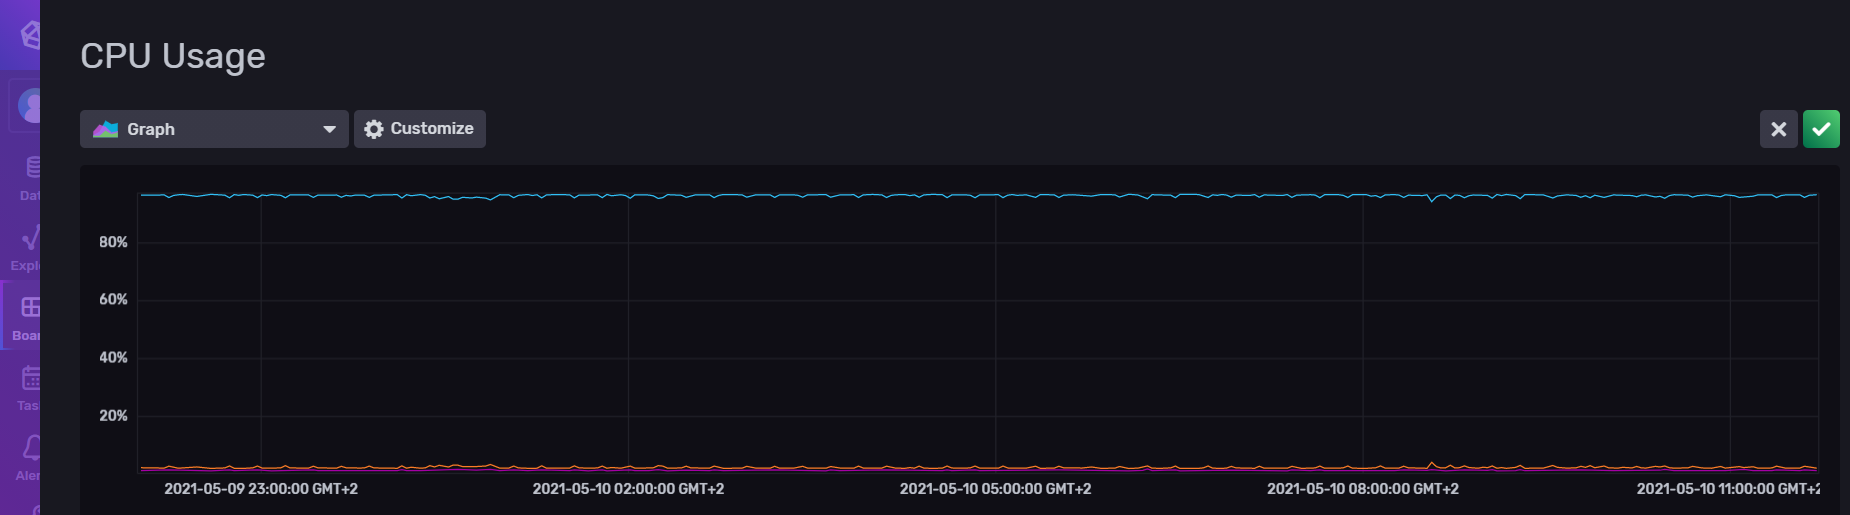
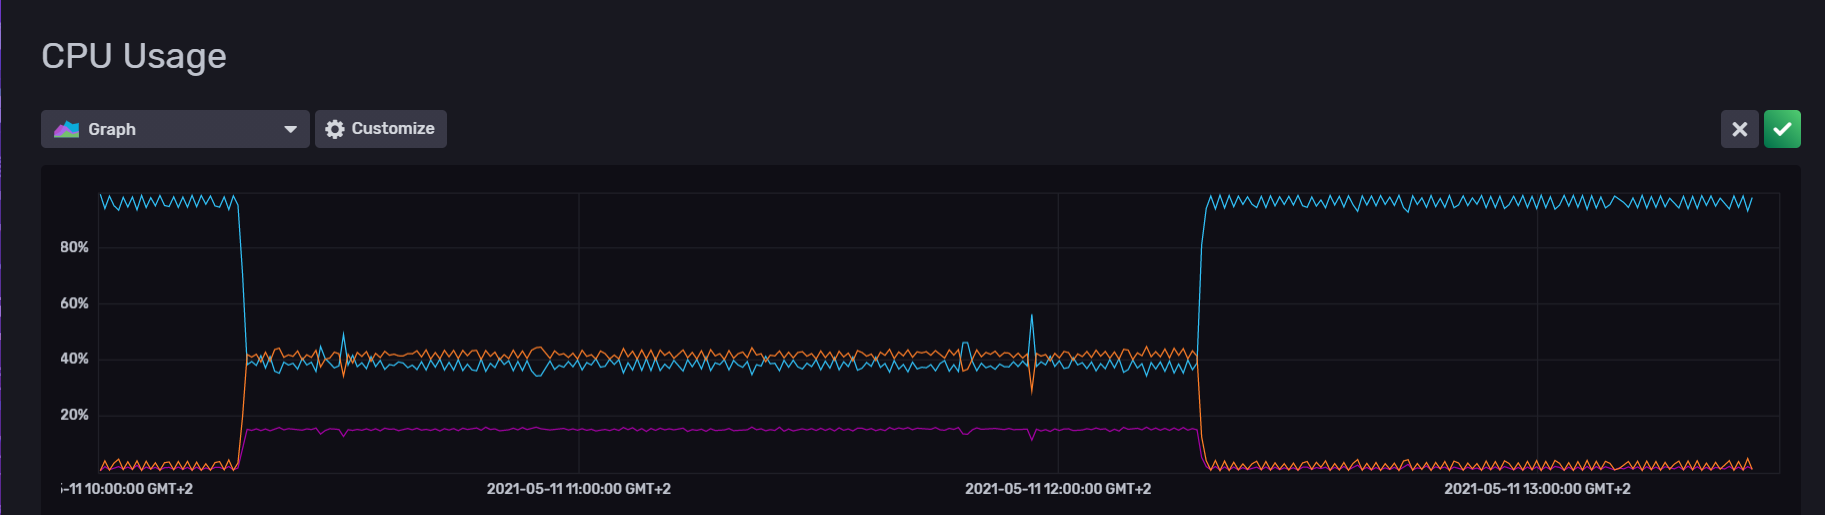
estability test done

diff --git a/00-Testing/Pruebas De Rendimiento.md b/00-Testing/Pruebas De Rendimiento.md
@@ -543,33 +543,33 @@ En las siguientes imágenes se pueden ver los resultados en gráfica y tabla. Se
 
 Los resultados obtenidos se pueden ver en la siguiente tabla:
 
-| Label                                 | # Samples | Average | Min  | Max  | Std. Dev. | Error % | Throughput | Received KB/sec | Sent KB/sec | Avg. Bytes |
-| ------------------------------------- | --------- | ------- | ---- | ---- | --------- | ------- | ---------- | --------------- | ----------- | ---------- |
-| /api/university/organizationByType    | 15        | 131     | 94   | 320  | 63.14     | 0.000%  | .00224     | 0.00            | 0.00        | 965.0      |
-| /api/organization/search              | 15        | 153     | 110  | 383  | 70.54     | 0.000%  | .00224     | 0.01            | 0.00        | 2635.0     |
-| /api/organization/-1/T3JnYW5pemF0aW9u | 15        | 111     | 97   | 126  | 8.54      | 0.000%  | .00224     | 0.00            | 0.00        | 933.0      |
-| /api/person/area                      | 29        | 109     | 92   | 242  | 26.61     | 0.000%  | .00433     | 0.00            | 0.00        | 398.0      |
-| /api/academicpublication/search       | 85        | 166     | 123  | 451  | 51.74     | 0.000%  | .01268     | 0.04            | 0.01        | 3308.0     |
-| /api/project/search                   | 85        | 169     | 124  | 454  | 51.53     | 0.000%  | .01268     | 0.04            | 0.01        | 3202.0     |
-| /api/document/search                  | 84        | 203     | 156  | 562  | 66.56     | 0.000%  | .01266     | 0.03            | 0.01        | 2688.0     |
-| /api/patent/area                      | 42        | 128     | 88   | 394  | 69.67     | 0.000%  | .00630     | 0.02            | 0.00        | 3393.0     |
-| /api/patent/search                    | 84        | 155     | 107  | 412  | 61.11     | 0.000%  | .01259     | 0.02            | 0.01        | 1661.3     |
-| /api/researchstaff/search             | 42        | 230     | 188  | 442  | 51.75     | 0.000%  | .00630     | 0.01            | 0.00        | 1827.0     |
-| /main/categories/scientist/1          | 14        | 46      | 43   | 55   | 2.88      | 0.000%  | .00213     | 0.00            | 0.00        | 1235.0     |
-| /api/otherpublication/search          | 56        | 170     | 139  | 327  | 42.03     | 0.000%  | .00848     | 0.02            | 0.01        | 2456.0     |
-| /api/event/search                     | 56        | 225     | 154  | 834  | 132.50    | 0.000%  | .00847     | 0.02            | 0.01        | 2733.0     |
-| /api/booksection/search/              | 42        | 120     | 103  | 147  | 10.65     | 0.000%  | .00640     | 0.00            | 0.00        | 766.0      |
-| /api/document/M-21543-97/Qm9vaw==     | 14        | 154     | 143  | 168  | 8.12      | 0.000%  | .00214     | 0.00            | 0.00        | 708.0      |
-| /api/event/48/Q29uZmVyZW5jZQ==        | 14        | 140     | 110  | 268  | 36.59     | 0.000%  | .00213     | 0.00            | 0.00        | 758.0      |
-| /api/project/byModality               | 28        | 122     | 95   | 294  | 36.33     | 0.000%  | .00425     | 0.01            | 0.00        | 2403.0     |
-| /api/patent/1                         | 14        | 116     | 107  | 137  | 7.39      | 0.000%  | .00213     | 0.00            | 0.00        | 671.0      |
-| /api/project/1                        | 14        | 126     | 111  | 141  | 8.56      | 0.000%  | .00213     | 0.00            | 0.00        | 398.0      |
-| /api/person/search                    | 14        | 267     | 233  | 419  | 44.94     | 0.000%  | .00213     | 0.00            | 0.00        | 1821.0     |
-| TOTAL                                 | 762       | 164     | 43   | 834  | 72.89     | 0.000%  | .11348     | 0.25            | 0.07        | 2212.3     |
+| Label                                 | # Samples | Average | Min  | Max   | Std. Dev. | Error % | Throughput | Received KB/sec | Sent KB/sec | Avg. Bytes |
+| ------------------------------------- | --------- | ------- | ---- | ----- | --------- | ------- | ---------- | --------------- | ----------- | ---------- |
+| /api/university/organizationByType    | 4422      | 285     | 84   | 8576  | 371.29    | 0.000%  | .61547     | 0.58            | 0.38        | 965.0      |
+| /api/organization/search              | 4422      | 306     | 98   | 10084 | 402.01    | 0.000%  | .61534     | 1.58            | 0.39        | 2635.0     |
+| /api/organization/-1/T3JnYW5pemF0aW9u | 4422      | 271     | 86   | 9887  | 339.83    | 0.000%  | .61497     | 0.56            | 0.44        | 933.0      |
+| /api/person/area                      | 8825      | 259     | 83   | 8990  | 319.03    | 0.000%  | 1.22659    | 0.48            | 0.79        | 398.0      |
+| /api/academicpublication/search       | 30777     | 349     | 118  | 12955 | 337.93    | 0.000%  | 4.27930    | 12.63           | 3.06        | 3021.8     |
+| /api/project/search                   | 26216     | 321     | 116  | 9638  | 312.13    | 0.000%  | 3.64586    | 11.40           | 2.37        | 3202.0     |
+| /api/document/search                  | 30773     | 388     | 141  | 9650  | 344.43    | 0.000%  | 4.28089    | 10.09           | 2.94        | 2413.2     |
+| /api/patent/area                      | 13119     | 267     | 85   | 9180  | 313.79    | 0.000%  | 1.82579    | 6.05            | 1.15        | 3393.0     |
+| /api/patent/search                    | 30597     | 308     | 100  | 15414 | 345.48    | 0.000%  | 4.26018    | 6.36            | 2.81        | 1529.7     |
+| /api/researchstaff/search             | 13133     | 389     | 158  | 9719  | 329.26    | 0.000%  | 1.83183    | 3.27            | 1.20        | 1827.0     |
+| /api/person/3519                      | 4402      | 428     | 195  | 5241  | 297.41    | 0.000%  | .61475     | 0.41            | 0.41        | 683.0      |
+| /api/event/search                     | 21945     | 387     | 138  | 9161  | 305.14    | 0.000%  | 3.06538    | 7.76            | 1.95        | 2591.6     |
+| /api/otherpublication/search          | 17553     | 349     | 123  | 17489 | 386.31    | 0.000%  | 2.45591    | 5.89            | 1.58        | 2456.0     |
+| /api/booksection/search/              | 13169     | 305     | 94   | 9782  | 396.67    | 0.000%  | 1.84709    | 1.38            | 1.30        | 766.0      |
+| /api/document/M-21543-97/Qm9vaw==     | 4392      | 320     | 123  | 9240  | 406.75    | 0.000%  | .61642     | 0.43            | 0.43        | 708.0      |
+| /api/event/48/Q29uZmVyZW5jZQ==        | 4367      | 286     | 100  | 8873  | 409.66    | 0.000%  | .61521     | 0.46            | 0.42        | 758.0      |
+| /api/project/byModality               | 8707      | 263     | 88   | 15350 | 329.85    | 0.000%  | 1.22726    | 2.88            | 0.75        | 2403.0     |
+| /api/patent/1                         | 4348      | 265     | 90   | 8736  | 305.91    | 0.000%  | .61411     | 0.40            | 0.36        | 671.0      |
+| /api/project/1                        | 4329      | 275     | 99   | 5971  | 265.61    | 0.000%  | .61318     | 0.24            | 0.39        | 398.0      |
+| /api/person/search                    | 4328      | 399     | 184  | 17477 | 373.69    | 0.000%  | .61308     | 1.09            | 0.39        | 1821.0     |
+| TOTAL                                 | 254246    | 333     | 83   | 17489 | 344.62    | 0.000%  | 35.30878   | 73.64           | 23.38       | 2135.8     |
 
 
 
-Teniendo en cuenta que los test se han lanzado entre las 00:00 del 10/05/2021 y las 02:00 del 10/05/2021, el resultado de la monitorización del sistema durante los test de carga se puede ver en las siguientes imágenes:
+Teniendo en cuenta que los test se ha estado ejecutando entre las 10:15 del 11/05/2021 y las 12:15 del 11/05/2021, podemos observar en las siguientes imágenes que el sistema sufrió un aumento considerable del uso de recursos, pero a pesar de esto, como podemos ver en la tabla superior, durante las dos horas que duraron los test no ha fallado ningún servicio:
 
 ![Resultado general de la monitorización de test de estabilidad](./img/jmeter/general-state-test-estabilidad.png)
 
